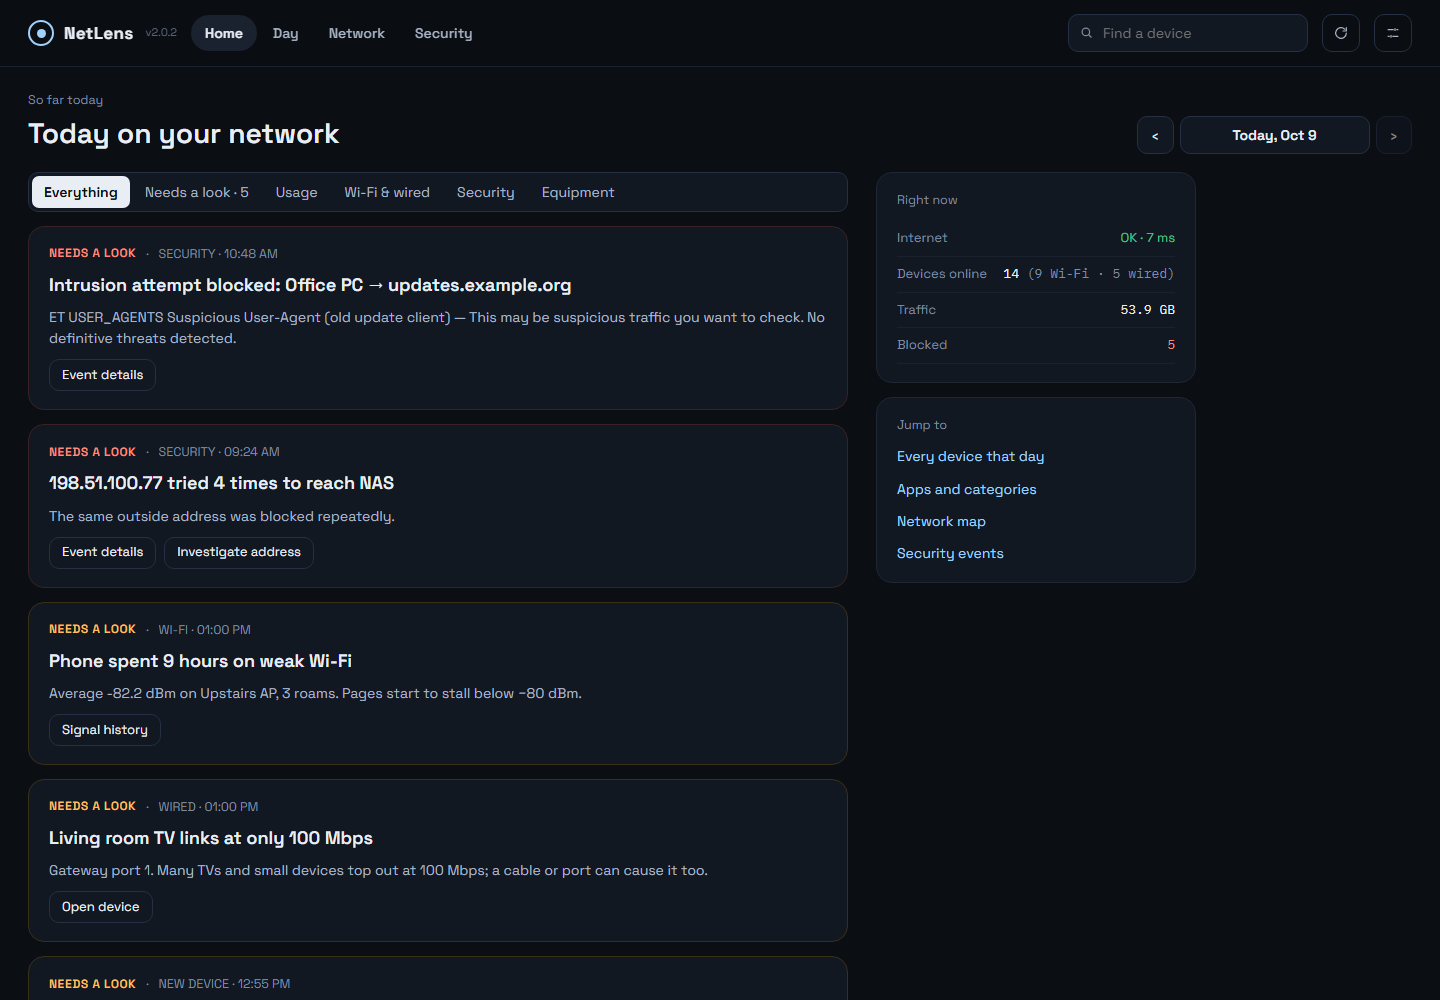
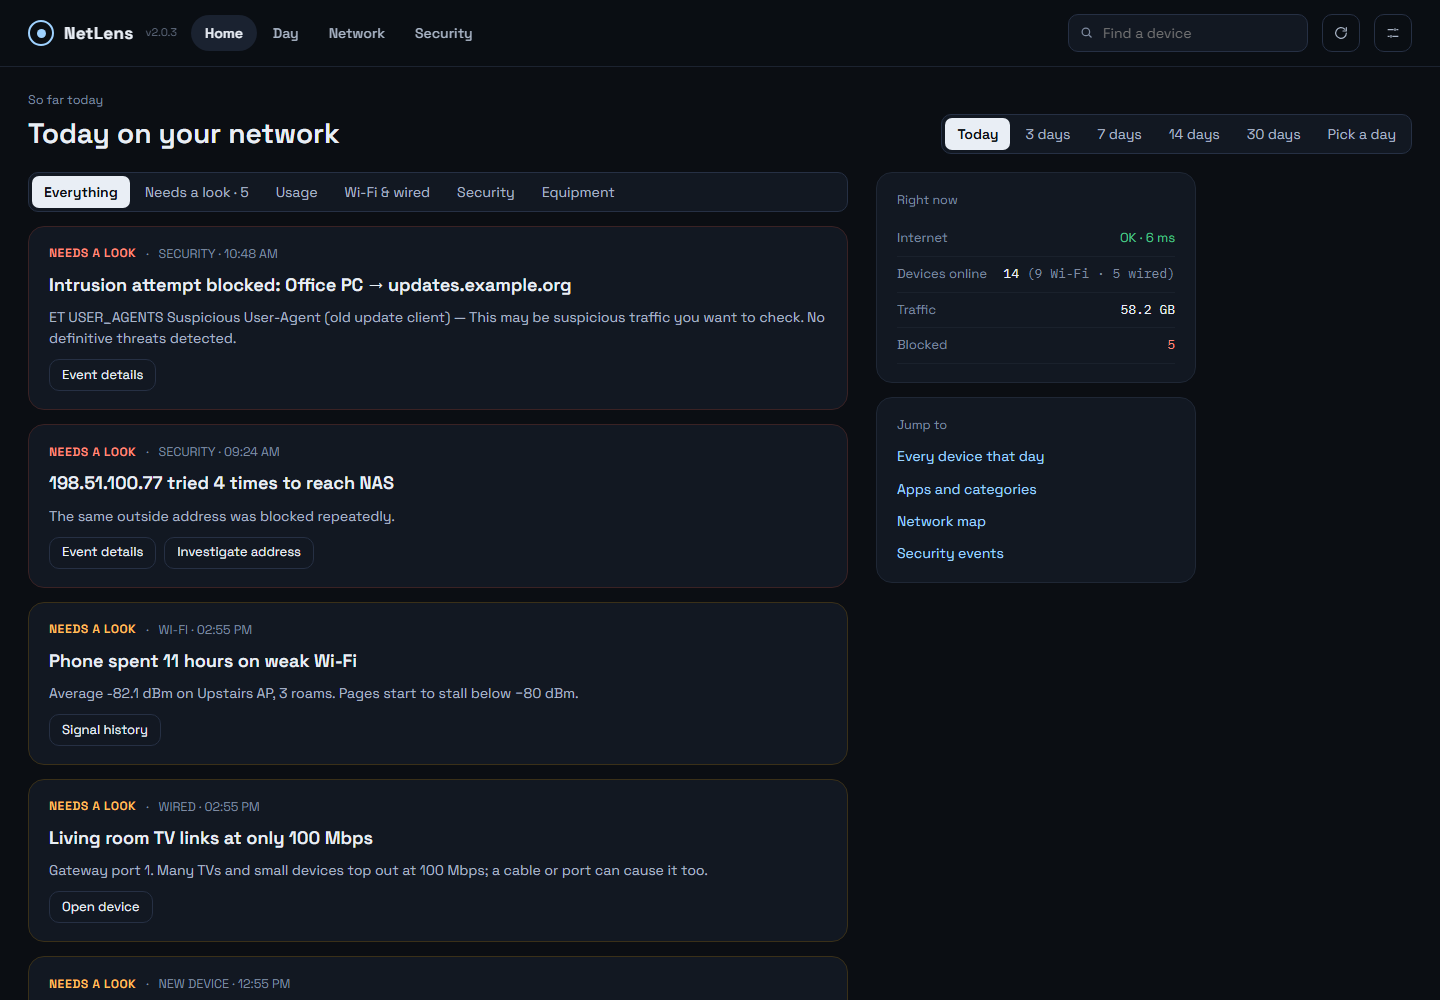
Release v2.0.3

Changed region(s): [[0.0938, 0.62, 0.4062, 0.713], [0.6562, 0.093, 0.9688, 0.155], [0.7812, 0.217, 0.8125, 0.248]]

diff --git a/web/src/pages/Network.jsx b/web/src/pages/Network.jsx
@@ -133,6 +133,112 @@ function Panel({ data, route }) {
   );
 }
 
+// The real topology (UU-C-093): each switch / AP hangs off the device and port it reports as its
+// uplink; wired devices are grouped by the port they are on.
+function portSpeed(node, idx) {
+  const p = (node.ports || []).find((x) => x.idx === idx);
+  return p?.up && p.speed ? speed(p.speed) : null;
+}
+
+function Branch({ node, all, byName, gateway, sel, selC, root = false }) {
+  const parentOf = (n) => (n.uplink?.device && byName[n.uplink.device]) || gateway;
+  const kids = all.filter((n) => n !== gateway && n !== node && parentOf(n) === node);
+  const wired = node.clients.filter((c) => c.wired);
+  const wifi = node.clients.filter((c) => !c.wired);
+  const ports = new Map();
+  const at = (p) => {
+    const k = p ?? "?";
+    if (!ports.has(k)) ports.set(k, { kids: [], clients: [] });
+    return ports.get(k);
+  };
+  for (const k of kids) at(k.uplink?.port).kids.push(k);
+  for (const c of wired) at(c.port).clients.push(c);
+  const order = [...ports.keys()].sort((a, b) => (a === "?" ? 1 : b === "?" ? -1 : a - b));
+  const isAp = /uap/.test(node.type || "");
+  return (
+    <div className={`branch-tree ${root ? "root" : ""}`}>
+      <a className={`node ${root ? "gw" : ""} ${sel === node.mac ? "sel" : ""}`} href={href("network", null, { n: node.mac })}>
+        <span className="small" style={{ color: root ? "var(--accent)" : "var(--dim)" }}>
+          {kindOf(node.type)}{node.online === false ? " · offline" : ""}
+        </span>
+        <strong>{node.name}</strong>
+        {root ? (
+          <span className="mono small dim">{node.cpu != null ? `CPU ${Math.round(node.cpu)}%` : ""}{node.temp != null ? ` · ${Math.round(node.temp)} °C` : ""} · up {duration(node.uptime)}</span>
+        ) : (
+          <NodeStat n={node} />
+        )}
+      </a>
+      {(order.length > 0 || (isAp && wifi.length > 0)) && (
+        <div className="ports">
+          {order.map((p) => {
+            const g = ports.get(p);
+            const sp = p === "?" ? null : portSpeed(node, p);
+            return (
+              <div key={p} className="port-row">
+                <span className="port-label">
+                  <strong>{p === "?" ? "Port ?" : `Port ${p}`}</strong>
+                  <span className="mono small dim">{[sp, g.clients.length > 1 ? `${g.clients.length} devices` : null].filter(Boolean).join(" · ")}</span>
+                </span>
+                <div className="port-body">
+                  {g.kids.map((k) => (
+                    <Branch key={k.mac} node={k} all={all} byName={byName} gateway={gateway} sel={sel} selC={selC} />
+                  ))}
+                  {g.clients.length > 0 && (
+                    <div className="chips">
+                      {g.clients.map((c) => <Client key={c.mac} c={c} sel={selC === c.mac} />)}
+                    </div>
+                  )}
+                </div>
+              </div>
+            );
+          })}
+          {isAp && wifi.length > 0 && (
+            <div className="port-row">
+              <span className="port-label">
+                <strong>Wi-Fi</strong>
+                <span className="mono small dim">{wifi.length} devices</span>
+              </span>
+              <div className="port-body">
+                <div className="chips">{wifi.map((c) => <Client key={c.mac} c={c} sel={selC === c.mac} />)}</div>
+              </div>
+            </div>
+          )}
+        </div>
+      )}
+    </div>
+  );
+}
+
+function Tree({ data, sel, selC }) {
+  const gateway = data.gateway;
+  if (!gateway) return <div className="card empty">No gateway data yet.</div>;
+  const all = [gateway, ...data.nodes];
+  const byName = Object.fromEntries(all.map((n) => [n.name, n]));
+  return (
+    <div className="map">
+      <div className="node internet">
+        <span className="dim small">Internet</span>
+        <strong>{data.wan?.isp || "WAN"}</strong>
+        <span className={`mono small ${data.wan?.status === "ok" ? "ok" : "warn"}`}>
+          {data.wan?.status === "ok" ? "OK" : data.wan?.status || "unknown"}
+          {data.wan?.latency != null ? ` · ${data.wan.latency} ms` : ""}
+        </span>
+        {gateway.uplink?.speed ? <span className="mono small dim">WAN link {speed(gateway.uplink.speed)}</span> : null}
+      </div>
+      <Branch node={gateway} all={all} byName={byName} gateway={gateway} sel={sel} selC={selC} root />
+      {data.loose.length > 0 && (
+        <div className="port-row" style={{ marginTop: 8 }}>
+          <span className="port-label">
+            <strong>Elsewhere</strong>
+            <span className="small dim">behind other devices</span>
+          </span>
+          <div className="port-body"><div className="chips">{data.loose.map((c) => <Client key={c.mac} c={c} sel={selC === c.mac} />)}</div></div>
+        </div>
+      )}
+    </div>
+  );
+}
+
 export default function Network({ route }) {
   const { data, error, loading, reload } = useApi("/api/network", 60 * 1000);
   const sel = route.query.n || null;
@@ -149,60 +255,7 @@ export default function Network({ route }) {
           </div>
           {error && <Failed error={error} reload={reload} />}
           {!data && loading && <Loading />}
-          {data && (
-            <div className="tree">
-              <div className="node" style={{ gridRow: `span ${Math.max(1, data.nodes.length + 1)}`, alignSelf: "center", cursor: "default" }}>
-                <span className="dim small">Internet</span>
-                <strong>{data.wan?.isp || "WAN"}</strong>
-                <span className={`mono small ${data.wan?.status === "ok" ? "ok" : "warn"}`}>
-                  {data.wan?.status === "ok" ? "OK" : data.wan?.status || "unknown"}
-                  {data.wan?.latency != null ? ` · ${data.wan.latency} ms` : ""}
-                </span>
-                {data.wan?.availability != null && <span className="mono small dim">{data.wan.availability}% up</span>}
-              </div>
-              <div className="wire strong" style={{ gridRow: `span ${Math.max(1, data.nodes.length + 1)}` }} />
-              {data.gateway ? (
-                <a
-                  className={`node gw ${sel === data.gateway.mac ? "sel" : ""}`}
-                  href={href("network", null, { n: data.gateway.mac })}
-                  style={{ gridRow: `span ${Math.max(1, data.nodes.length + 1)}`, alignSelf: "center" }}
-                >
-                  <span className="small" style={{ color: "var(--accent)" }}>Gateway</span>
-                  <strong>{data.gateway.name}</strong>
-                  {data.gateway.cpu != null && <span className="mono small dim">CPU {Math.round(data.gateway.cpu)}%{data.gateway.temp != null ? ` · ${Math.round(data.gateway.temp)} °C` : ""}</span>}
-                  <span className="mono small dim">up {duration(data.gateway.uptime)}</span>
-                </a>
-              ) : (
-                <div className="node" style={{ gridRow: "span 1" }}>No gateway data yet</div>
-              )}
-              {[...data.nodes, ...(data.gateway && data.gateway.clients.length ? [{ ...data.gateway, direct: true }] : [])].map((n) => [
-                <div key={`${n.mac}-w`} className="wire" style={{ gridColumn: 4 }} />,
-                <div key={n.mac} className="branch" style={{ gridColumn: 5 }}>
-                  {n.direct ? (
-                    <span className="node" style={{ cursor: "default" }}>
-                      <span className="dim small">Gateway ports</span>
-                      <strong>Wired to the gateway</strong>
-                    </span>
-                  ) : (
-                    <a className={`node ${sel === n.mac ? "sel" : ""}`} href={href("network", null, { n: n.mac })}>
-                      <span className="dim small">{kindOf(n.type)}{n.online ? "" : " · offline"}</span>
-                      <strong>{n.name}</strong>
-                      <NodeStat n={n} />
-                    </a>
-                  )}
-                  {n.clients.map((c) => <Client key={c.mac} c={c} sel={selC === c.mac} />)}
-                  {!n.clients.length && <span className="dim small">no devices right now</span>}
-                </div>,
-              ])}
-              {data.loose.length > 0 && [
-                <div key="loose-w" className="wire" style={{ gridColumn: 4 }} />,
-                <div key="loose" className="branch" style={{ gridColumn: 5 }}>
-                  <span className="node" style={{ cursor: "default" }}><span className="dim small">Behind other devices</span><strong>Other</strong></span>
-                  {data.loose.map((c) => <Client key={c.mac} c={c} sel={selC === c.mac} />)}
-                </div>,
-              ]}
-            </div>
-          )}
+          {data && <Tree data={data} sel={sel} selC={selC} />}
         </div>
       </div>
       {data && <Panel data={data} route={route} />}

diff --git a/web/src/pages/Home.jsx b/web/src/pages/Home.jsx
@@ -1,5 +1,5 @@
 import { useState } from "react";
-import { bytes, clock, go, href, todayKey, useApi } from "../lib.js";
+import { addDays, bytes, clock, go, href, shortDate, todayKey, useApi } from "../lib.js";
 import { Bars, DayStep, Failed, Loading, levelColor } from "../ui.jsx";
 
 // Home — the feed (UU-C-087): what happened today, in plain language, each finding linking
@@ -27,10 +27,23 @@ function actionsFor(f, date) {
   return a;
 }
 
+const RANGES = [
+  ["today", "Today"],
+  ["3", "3 days"],
+  ["7", "7 days"],
+  ["14", "14 days"],
+  ["30", "30 days"],
+  ["day", "Pick a day"],
+];
+
 export default function Home({ route }) {
+  const days = ["3", "7", "14", "30"].includes(route.query.r) ? route.query.r : null;
   const date = route.query.d || todayKey();
+  const picked = !days && route.query.d && route.query.d !== todayKey();
+  const range = days || (picked ? "day" : "today");
   const [filter, setFilter] = useState("all");
-  const { data, error, loading, reload } = useApi(`/api/findings?date=${date}`, date === todayKey() ? 5 * 60 * 1000 : 0);
+  const path = days ? `/api/findings?days=${days}` : `/api/findings?date=${date}`;
+  const { data, error, loading, reload } = useApi(path, range === "today" || days ? 5 * 60 * 1000 : 0);
   const list = (data?.findings || []).filter((f) => {
     if (filter === "all") return true;
     if (filter === "look") return f.level !== "info";
@@ -43,10 +56,27 @@ export default function Home({ route }) {
     <div className="page">
       <div className="page-head">
         <div className="titles">
-          <span className="dim small">{data?.today ? "So far today" : "On this day"}</span>
-          <h1>{data?.today ? "Today on your network" : "That day on your network"}</h1>
+          <span className="dim small">{days ? `The last ${days} days, up to now` : data?.today ? "So far today" : "On this day"}</span>
+          <h1>{days ? `Your network, last ${days} days` : data?.today ? "Today on your network" : "That day on your network"}</h1>
         </div>
-        <DayStep date={date} onDate={(d) => go("home", null, { d: d === todayKey() ? null : d })} />
+        <div className="seg" role="group" aria-label="Period">
+          {RANGES.map(([id, label]) => (
+            <button
+              key={id}
+              className={range === id ? "on" : ""}
+              onClick={() =>
+                id === "today"
+                  ? go("home")
+                  : id === "day"
+                    ? go("home", null, { d: picked ? date : addDays(todayKey(), -1) })
+                    : go("home", null, { r: id })
+              }
+            >
+              {label}
+            </button>
+          ))}
+        </div>
+        {range === "day" && <DayStep date={date} onDate={(d) => go("home", null, { d: d === todayKey() ? null : d })} />}
       </div>
       {error && <Failed error={error} reload={reload} />}
       {!data && loading && <Loading />}
@@ -69,7 +99,7 @@ export default function Home({ route }) {
                     {f.level === "info" ? TAG[f.kind] || "NOTE" : "NEEDS A LOOK"}
                   </span>
                   <span>·</span>
-                  <span>{f.level === "info" ? "" : `${TAG[f.kind] || ""} · `}{clock(f.ts)}</span>
+                  <span>{f.level === "info" ? "" : `${TAG[f.kind] || ""} · `}{days ? shortDate(f.ts) : clock(f.ts)}</span>
                 </div>
                 <h3>{f.title}</h3>
                 {f.text && <p>{f.text}</p>}
@@ -95,7 +125,7 @@ export default function Home({ route }) {
           </div>
           <aside style={{ flex: "1 1 260px", maxWidth: 320, display: "flex", flexDirection: "column", gap: 14 }}>
             <div className="card">
-              <span className="dim small">{data.today ? "Right now" : "That day"}</span>
+              <span className="dim small">{data.today ? "Right now" : days ? `Last ${days} days` : "That day"}</span>
               <div className="kv">
                 {now?.internet && (
                   <div>
@@ -106,7 +136,7 @@ export default function Home({ route }) {
                     </span>
                   </div>
                 )}
-                {data.today && (
+                {(data.today || days) && (
                   <div>
                     <span>Devices online</span>
                     <span className="mono">

diff --git a/web/src/app.css b/web/src/app.css
@@ -225,3 +225,16 @@ table.t tr.click:hover td { background: #141b26; }
 
 .iconbtn.spin svg { animation: spin 0.9s linear infinite; }
 @keyframes spin { to { transform: rotate(360deg); } }
+
+/* ---- network tree (UU-C-093) ---- */
+.map { display: flex; flex-direction: column; gap: 10px; }
+.map .node.internet { align-self: flex-start; cursor: default; min-width: 200px; }
+.branch-tree { display: flex; flex-direction: column; gap: 8px; }
+.branch-tree > .node { align-self: flex-start; min-width: 220px; }
+.ports { display: flex; flex-direction: column; gap: 6px; margin-left: 22px; padding-left: 18px; border-left: 2px solid var(--line-2); }
+.branch-tree.root > .ports { border-left-color: var(--accent-strong); }
+.port-row { display: grid; grid-template-columns: 120px minmax(0, 1fr); gap: 12px; align-items: start; position: relative; }
+.port-row::before { content: ""; position: absolute; left: -18px; top: 18px; width: 14px; height: 2px; background: var(--line-2); }
+.port-label { display: flex; flex-direction: column; padding-top: 8px; font-size: 13px; }
+.port-body { display: flex; flex-direction: column; gap: 8px; min-width: 0; padding: 4px 0; }
+@media (max-width: 700px) { .port-row { grid-template-columns: minmax(0, 1fr); } .ports { margin-left: 8px; padding-left: 10px; } }

diff --git a/server/index.js b/server/index.js
@@ -796,6 +796,13 @@ app.get("/api/threats", (req, res) => {
 // ---- Views of the redesigned interface (UU-C-087), read-only like /api/report -------------
 function dayContext(query) {
   const todayKey = zonedDateKey(Date.now());
+  // The last N days up to now (Home's ranges, UU-C-094).
+  const days = Number(query.days);
+  if ([3, 7, 14, 30].includes(days)) {
+    const start = zonedMidnight(addDays(todayKey, -(days - 1)));
+    const now = Date.now();
+    return { date: todayKey, days, today: false, bundle: cache.readDays(dayKeysForRange(start, now)), start, end: now, now };
+  }
   const date = /^\d{4}-\d{2}-\d{2}$/.test(String(query.date || "")) ? String(query.date) : todayKey;
   const range = rangeFor({ period: "custom", date });
   const bundle = cache.readDays([date]);
@@ -829,6 +836,7 @@ app.get("/api/findings", (req, res) => {
     const blocked = insights.threats(ctx.start, ctx.end).total;
     res.json({
       date: ctx.date,
+      days: ctx.days || 1,
       today: ctx.today,
       tz,
       findings: list,

diff --git a/RELEASE_NOTES.md b/RELEASE_NOTES.md
@@ -1,8 +1,3 @@
 ### Added
-- Screenshots in the README and on Docker Hub.
-
-### Fixed
-- Home: repeated intrusion attempts from one address are one finding ("tried 4 times"), not one per attempt.
-- Home: finding headlines are no longer coloured like warnings.
-- Security: recent events without a connection record no longer say "older than 4 days".
-- Device page: the Wi-Fi link rates fit on one line.
+- Network: the real topology — each switch and access point under the device and port it is plugged into, wired devices grouped by switch port, with link speeds.
+- Home: Today, 3, 7, 14 or 30 days, or pick a day.

diff --git a/CHANGELOG.md b/CHANGELOG.md
@@ -1,5 +1,11 @@
 # Changelog
 
+## 2.0.3 — 2026-10-09
+
+### Added
+- Network: the real topology — each switch and access point under the device and port it is plugged into, wired devices grouped by switch port, with link speeds.
+- Home: Today, 3, 7, 14 or 30 days, or pick a day.
+
 ## 2.0.2 — 2026-10-09
 
 ### Added
